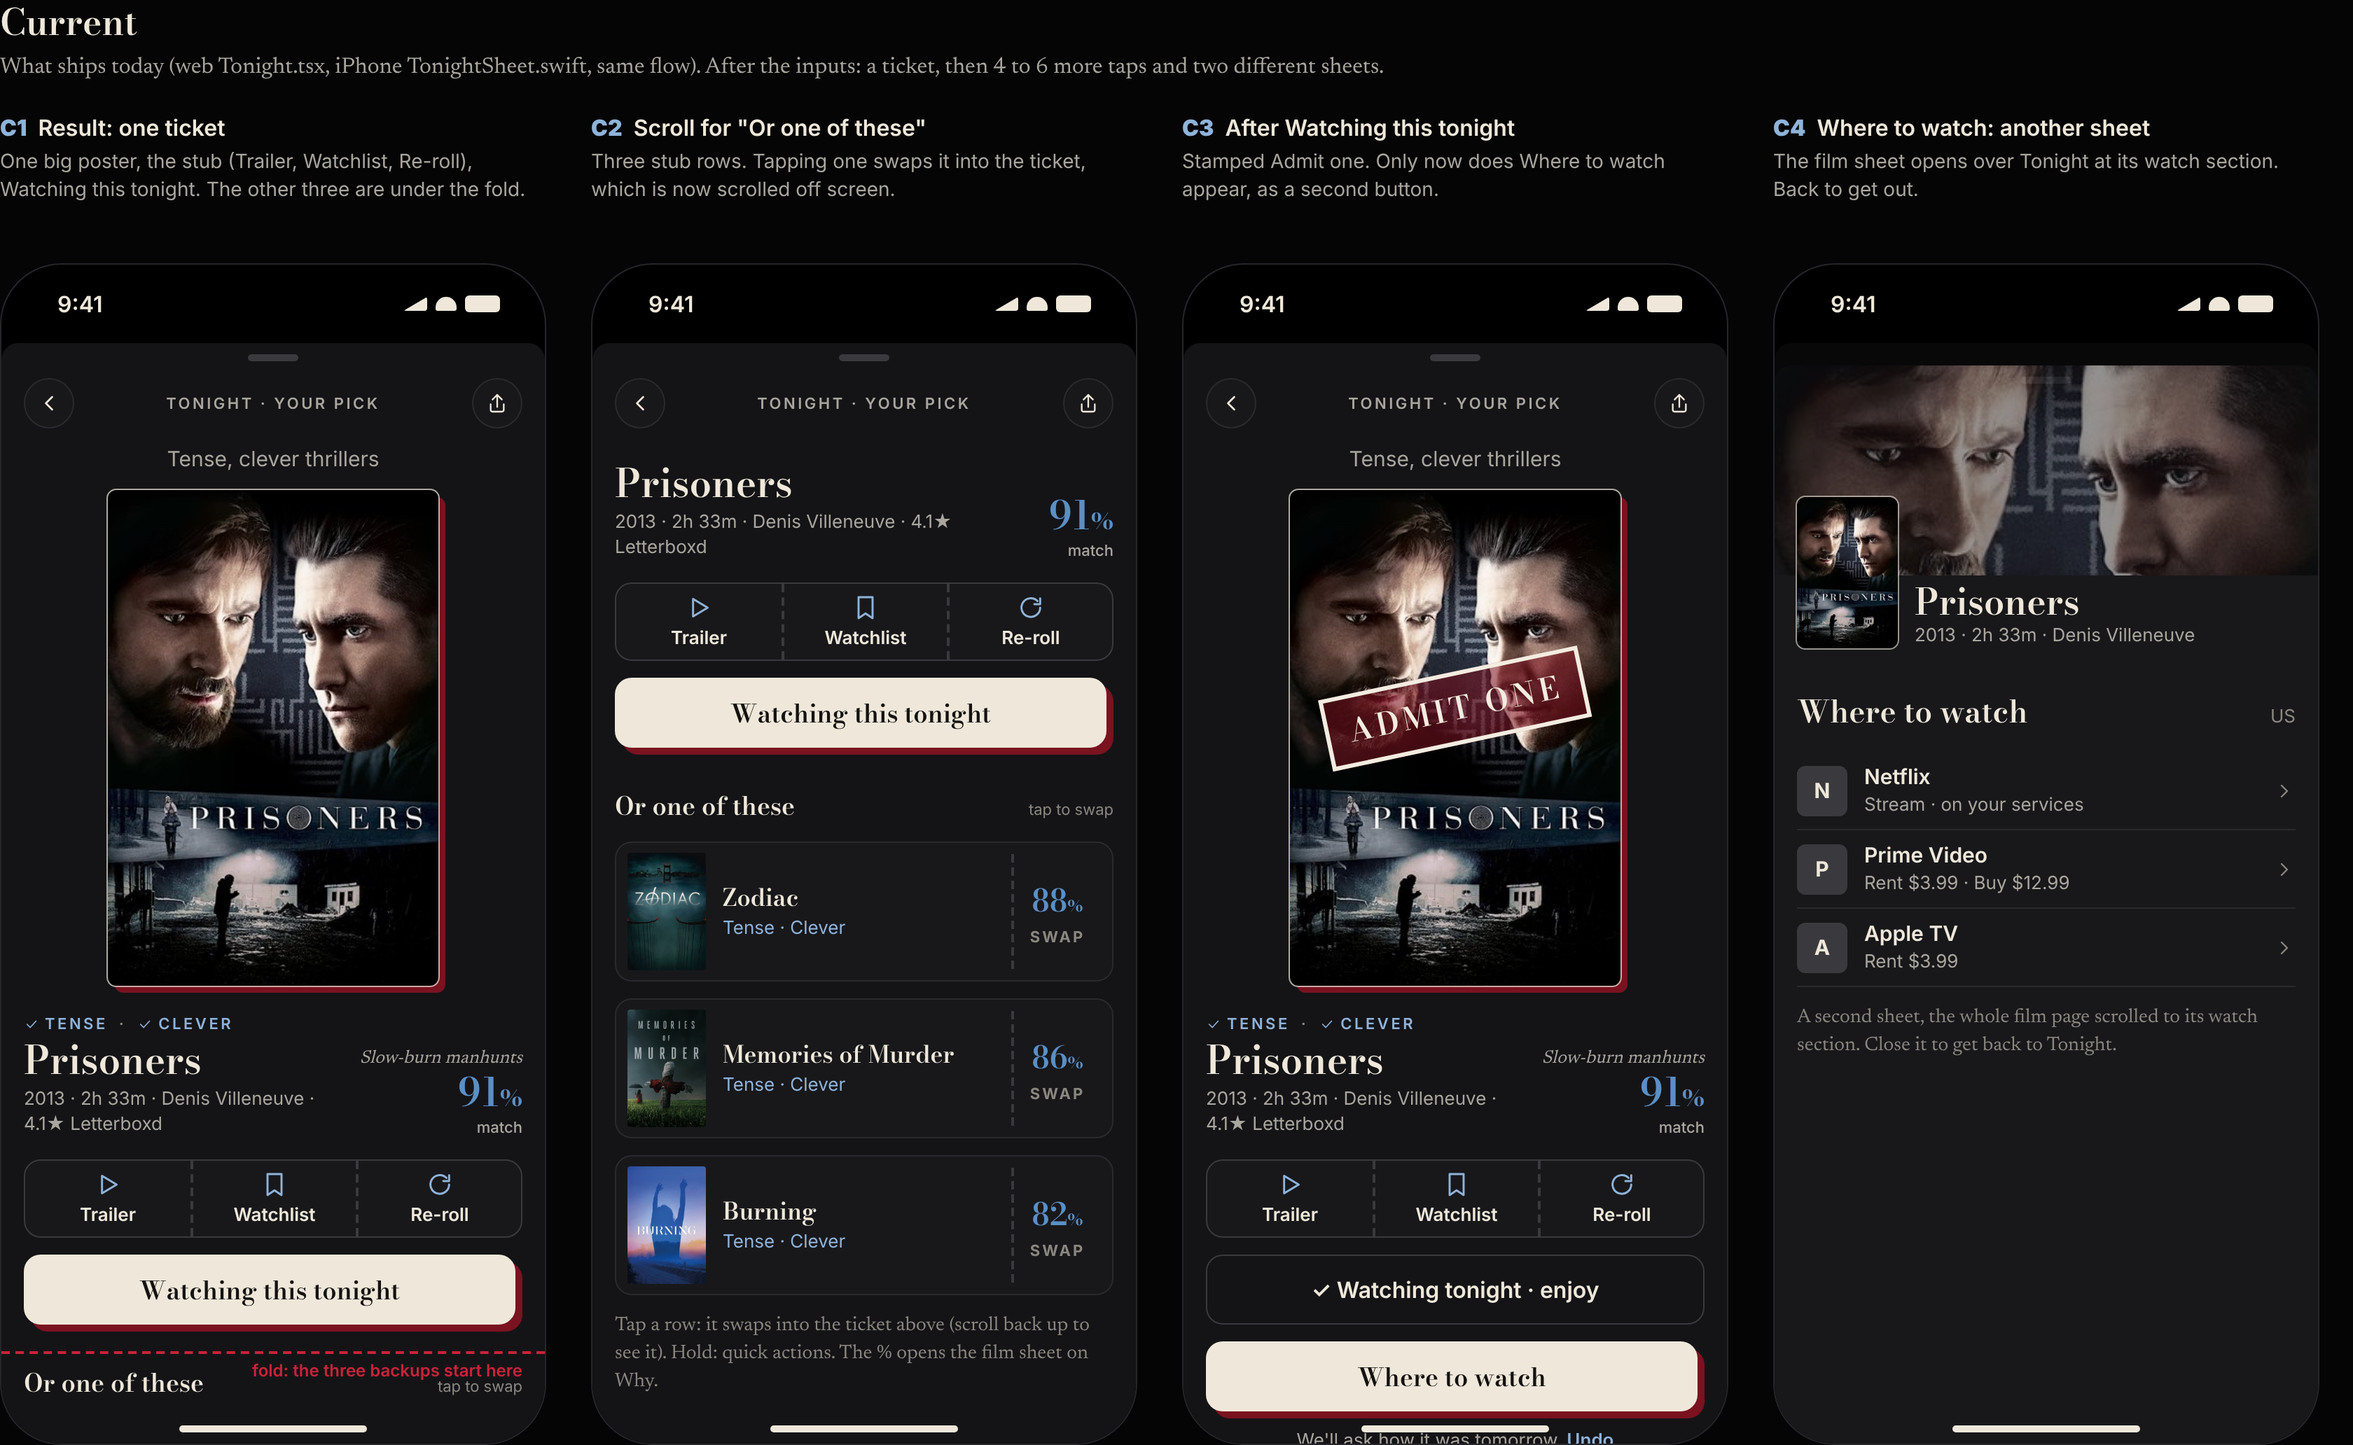
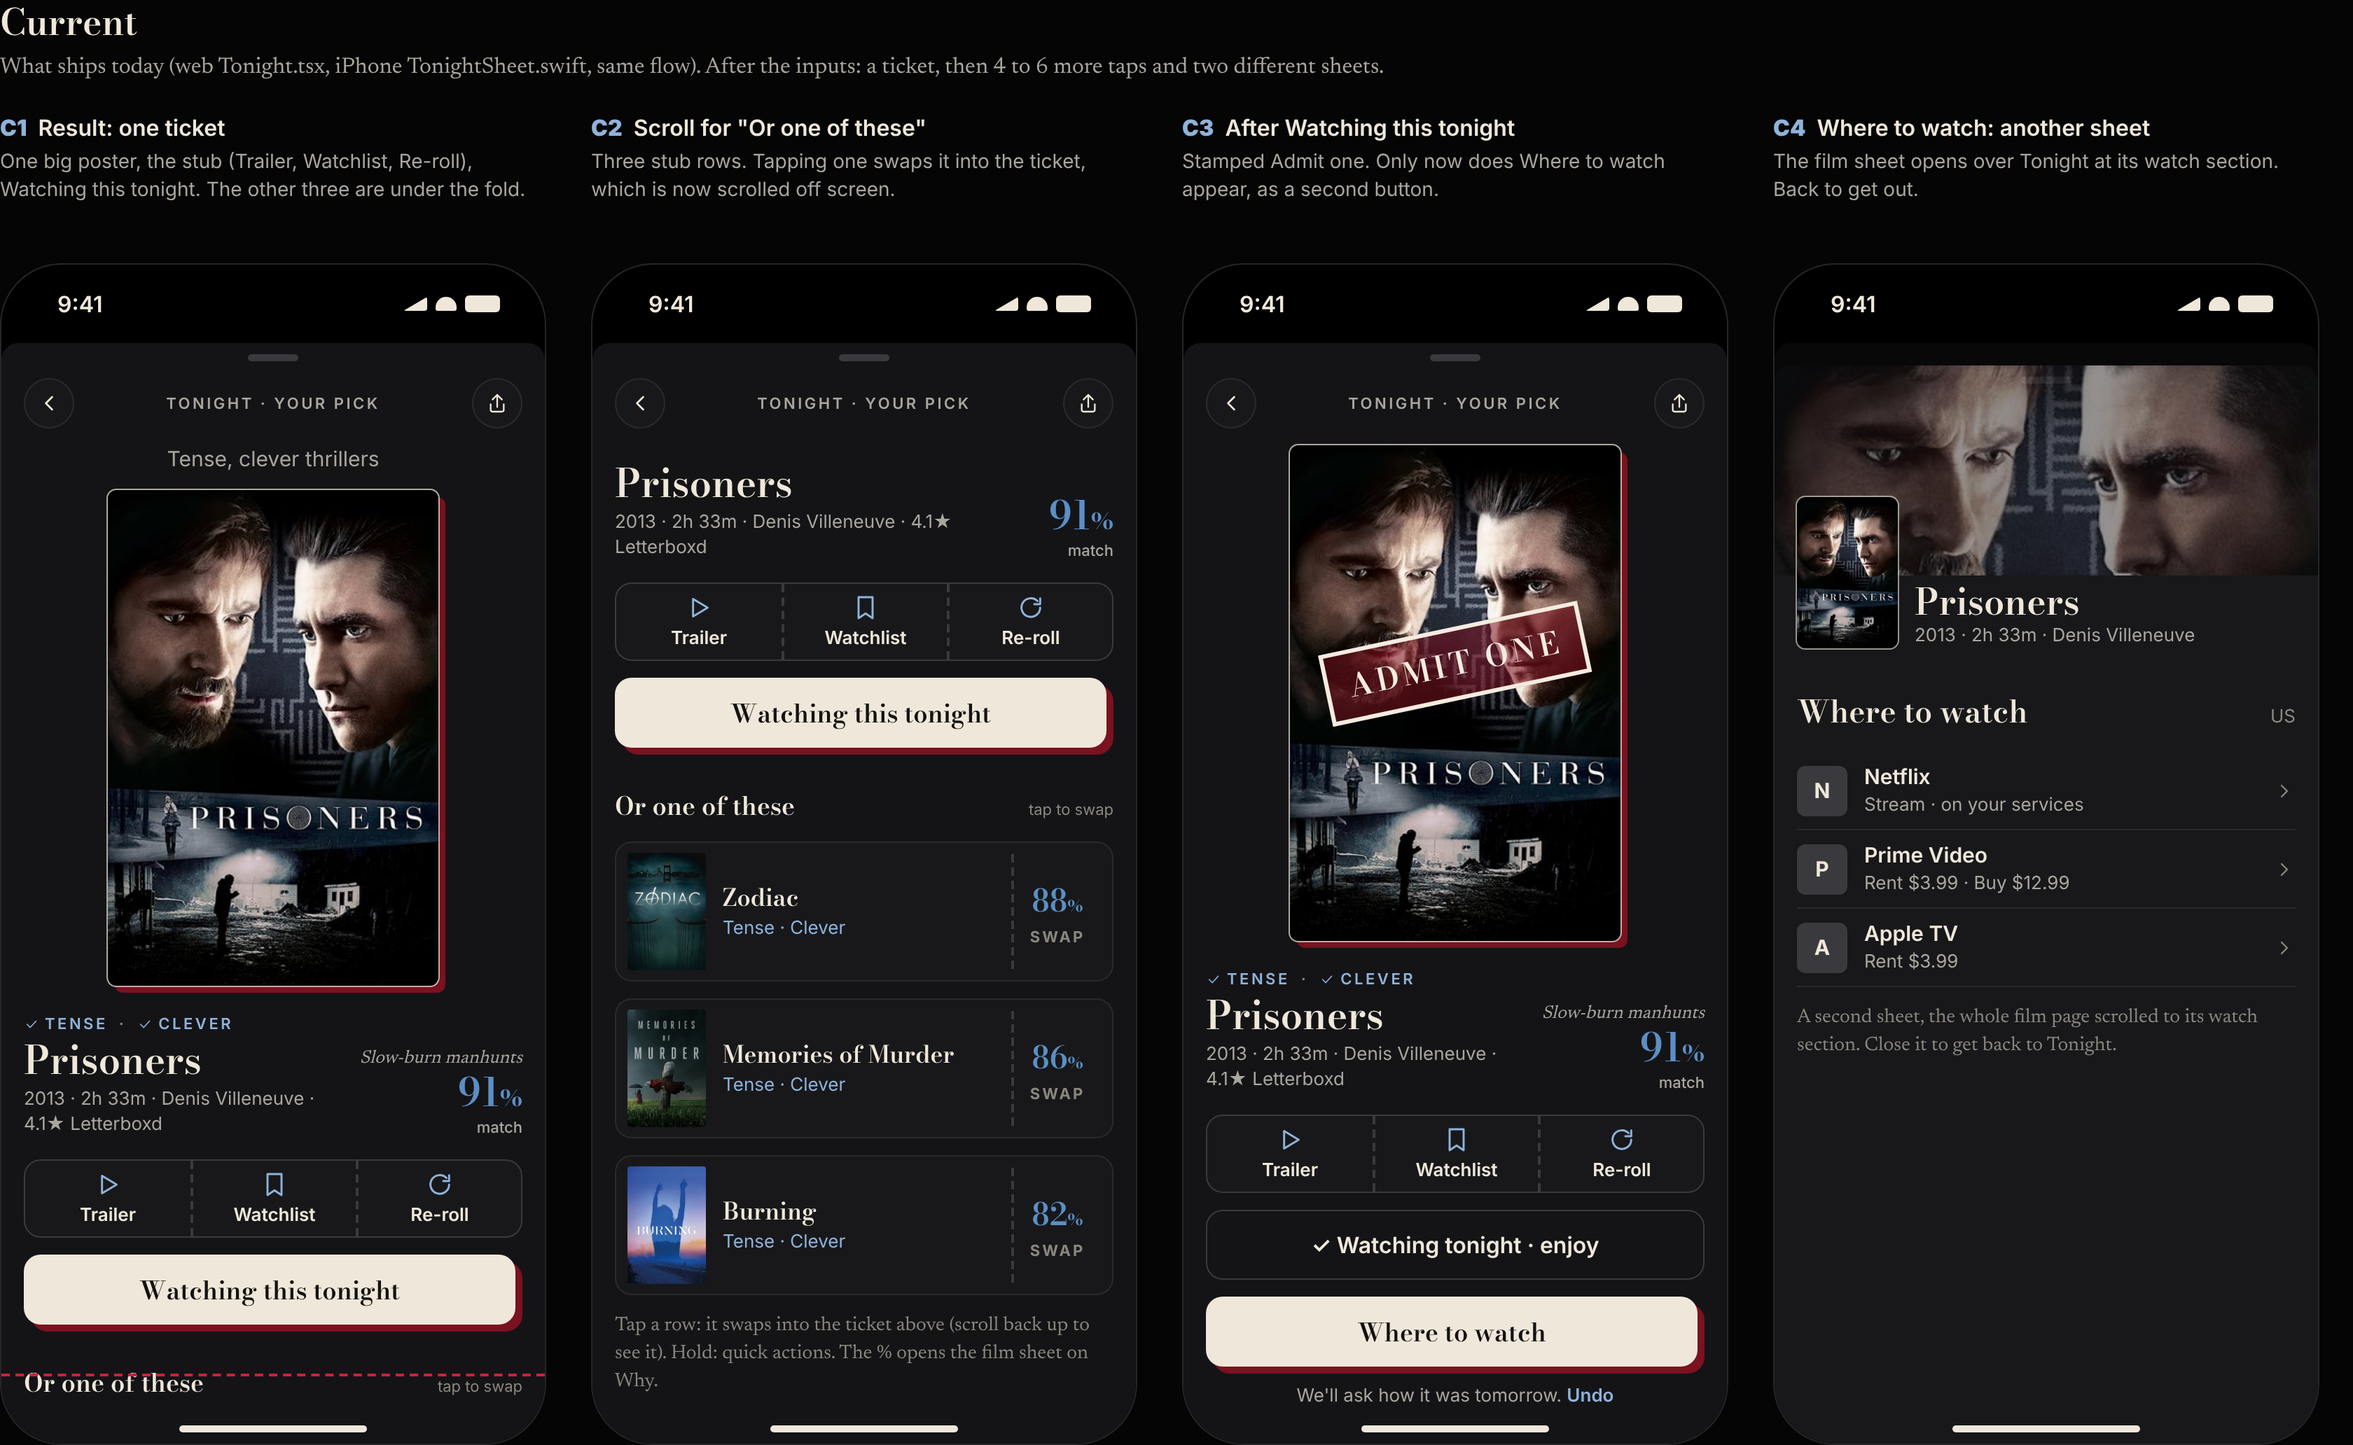
Mocks: in-progress simplification round mocks
Claude-Session: https://claude.ai/code/session_013WRDCFXH8nihP92apJAVW7

Changed region(s): [[0.5, 0.3101, 0.75, 1.0], [0.0938, 0.9302, 0.2188, 0.9612]]

diff --git a/mockups/journeys/tonight-four-v1.html b/mockups/journeys/tonight-four-v1.html
@@ -107,6 +107,9 @@ body{background:#050506;color:var(--ink);font-family:var(--ui);-webkit-font-smoo
 .aftop{display:flex;gap:16px;align-items:flex-end;margin-top:16px}
 .cream.play{margin-top:24px;font-family:var(--ui);font-size:17px}
 .alsob{display:flex;align-items:center;justify-content:center;height:44px;margin-top:8px;font:500 15px var(--ui);color:var(--accent-2)}
+
+.c3 .skipln{display:none}.c3 .cposter{margin-top:8px}
+.grid2{gap:4px 16px;margin-top:12px}.gt{margin-top:6px}
 </style></head><body><div id="all">
 <div class="top"><h1>Tonight result: four on one screen</h1><p>Owner, 2026-11-09: "don't make users do extra steps." Today: inputs, ticket, scroll for backups, swap, tap % for why, Watching this tonight, Where to watch, a second sheet. Proposed: inputs, four films, one tap.</p></div>
 <section class="grp" id="g1"><h2>Current</h2><p class="gsub">What ships today (web Tonight.tsx, iPhone TonightSheet.swift, same flow). After the inputs: a ticket, then 4 to 6 more taps and two different sheets.</p><div class="row"><div class="fr" id="c1"><p class="cap"><b>C1</b> Result: one ticket<span>One big poster, the stub (Trailer, Watchlist, Re-roll), Watching this tonight. The other three are under the fold.</span></p><div class="ph"><div class="sb"><span>9:41</span><span class="sbi"><i class="sig"></i><i class="wifi"></i><i class="bat"></i></span></div><div class="sheet full"><div class="grab"></div><div class="tnp-hd"><span class="rnd"><svg width="18" height="18" viewBox="0 0 24 24" fill="none" stroke="currentColor" stroke-width="1.75" stroke-linecap="round" stroke-linejoin="round" ><path d="M15 18l-6-6 6-6"/></svg></span><span class="kick">Tonight · Your pick</span><span class="rnd"><svg width="16" height="16" viewBox="0 0 24 24" fill="none" stroke="currentColor" stroke-width="1.75" stroke-linecap="round" stroke-linejoin="round" ><path d="M12 3v13M7 8l5-5 5 5"/><path d="M5 13v6a2 2 0 0 0 2 2h10a2 2 0 0 0 2-2v-6"/></svg></span></div>
@@ -116,11 +119,11 @@ body{background:#050506;color:var(--ink);font-family:var(--ui);-webkit-font-smoo
   <span class="ctitle">Prisoners</span><span class="cmeta">2013 · 2h 33m · Denis Villeneuve · 4.1★ Letterboxd</span></div>
   <div class="cscore"><span class="clane">Slow-burn manhunts</span><span class="cpct"><b>91<small>%</small></b><em>match</em></span></div></div><div class="cstub"><span><svg width="20" height="20" viewBox="0 0 24 24" fill="none" stroke="currentColor" stroke-width="1.75" stroke-linecap="round" stroke-linejoin="round" ><path d="M7 4.5v15l12.5-7.5z"/></svg>Trailer</span><span><svg width="20" height="20" viewBox="0 0 24 24" fill="none" stroke="currentColor" stroke-width="1.75" stroke-linecap="round" stroke-linejoin="round" ><path d="M6 3h12v18l-6-4-6 4z"/></svg>Watchlist</span><span><svg width="20" height="20" viewBox="0 0 24 24" fill="none" stroke="currentColor" stroke-width="1.75" stroke-linecap="round" stroke-linejoin="round" ><path d="M20 12a8 8 0 1 1-2.3-5.7M20 4v5h-5"/></svg>Re-roll</span></div><div class="cream">Watching this tonight</div>
   <div class="fold"><span>Or one of these</span><em>tap to swap</em></div></div></div><div class="hi"></div>
-  <div class="fold-mark">fold: the three backups start here</div></div></div><div class="fr" id="c2"><p class="cap"><b>C2</b> Scroll for "Or one of these"<span>Three stub rows. Tapping one swaps it into the ticket, which is now scrolled off screen.</span></p><div class="ph"><div class="sb"><span>9:41</span><span class="sbi"><i class="sig"></i><i class="wifi"></i><i class="bat"></i></span></div><div class="sheet full scrolled"><div class="grab"></div><div class="tnp-hd"><span class="rnd"><svg width="18" height="18" viewBox="0 0 24 24" fill="none" stroke="currentColor" stroke-width="1.75" stroke-linecap="round" stroke-linejoin="round" ><path d="M15 18l-6-6 6-6"/></svg></span><span class="kick">Tonight · Your pick</span><span class="rnd"><svg width="16" height="16" viewBox="0 0 24 24" fill="none" stroke="currentColor" stroke-width="1.75" stroke-linecap="round" stroke-linejoin="round" ><path d="M12 3v13M7 8l5-5 5 5"/><path d="M5 13v6a2 2 0 0 0 2 2h10a2 2 0 0 0 2-2v-6"/></svg></span></div>
+  <div class="fold-mark"></div></div></div><div class="fr" id="c2"><p class="cap"><b>C2</b> Scroll for "Or one of these"<span>Three stub rows. Tapping one swaps it into the ticket, which is now scrolled off screen.</span></p><div class="ph"><div class="sb"><span>9:41</span><span class="sbi"><i class="sig"></i><i class="wifi"></i><i class="bat"></i></span></div><div class="sheet full scrolled"><div class="grab"></div><div class="tnp-hd"><span class="rnd"><svg width="18" height="18" viewBox="0 0 24 24" fill="none" stroke="currentColor" stroke-width="1.75" stroke-linecap="round" stroke-linejoin="round" ><path d="M15 18l-6-6 6-6"/></svg></span><span class="kick">Tonight · Your pick</span><span class="rnd"><svg width="16" height="16" viewBox="0 0 24 24" fill="none" stroke="currentColor" stroke-width="1.75" stroke-linecap="round" stroke-linejoin="round" ><path d="M12 3v13M7 8l5-5 5 5"/><path d="M5 13v6a2 2 0 0 0 2 2h10a2 2 0 0 0 2-2v-6"/></svg></span></div>
   <div class="pad"><div class="peek"><div class="cinfo"><div class="ctxt"><span class="ctitle">Prisoners</span><span class="cmeta">2013 · 2h 33m · Denis Villeneuve · 4.1★ Letterboxd</span></div><div class="cscore"><span class="cpct"><b>91<small>%</small></b><em>match</em></span></div></div></div><div class="cstub"><span><svg width="20" height="20" viewBox="0 0 24 24" fill="none" stroke="currentColor" stroke-width="1.75" stroke-linecap="round" stroke-linejoin="round" ><path d="M7 4.5v15l12.5-7.5z"/></svg>Trailer</span><span><svg width="20" height="20" viewBox="0 0 24 24" fill="none" stroke="currentColor" stroke-width="1.75" stroke-linecap="round" stroke-linejoin="round" ><path d="M6 3h12v18l-6-4-6 4z"/></svg>Watchlist</span><span><svg width="20" height="20" viewBox="0 0 24 24" fill="none" stroke="currentColor" stroke-width="1.75" stroke-linecap="round" stroke-linejoin="round" ><path d="M20 12a8 8 0 1 1-2.3-5.7M20 4v5h-5"/></svg>Re-roll</span></div><div class="cream">Watching this tonight</div>
   <div class="ohd"><span>Or one of these</span><em>tap to swap</em></div>
   <div class="alt"><span class="altp" style="background-image:url(file:///home/user/CS-Term-Project/mockups/journeys/lists-v2-img/zodiac.jpg)"></span><span class="altb"><span class="altt">Zodiac</span><span class="altf">Tense · Clever</span></span><span class="alts"><b>88<small>%</small></b><i>Swap</i></span></div><div class="alt"><span class="altp" style="background-image:url(file:///home/user/CS-Term-Project/mockups/journeys/lists-v2-img/memories.jpg)"></span><span class="altb"><span class="altt">Memories of Murder</span><span class="altf">Tense · Clever</span></span><span class="alts"><b>86<small>%</small></b><i>Swap</i></span></div><div class="alt"><span class="altp" style="background-image:url(file:///home/user/CS-Term-Project/mockups/journeys/lists-v2-img/burning.jpg)"></span><span class="altb"><span class="altt">Burning</span><span class="altf">Tense · Clever</span></span><span class="alts"><b>82<small>%</small></b><i>Swap</i></span></div>
-  <p class="note-in">Tap a row: it swaps into the ticket above (scroll back up to see it). Hold: quick actions. The % opens the film sheet on Why.</p></div></div><div class="hi"></div></div></div><div class="fr" id="c3"><p class="cap"><b>C3</b> After Watching this tonight<span>Stamped Admit one. Only now does Where to watch appear, as a second button.</span></p><div class="ph"><div class="sb"><span>9:41</span><span class="sbi"><i class="sig"></i><i class="wifi"></i><i class="bat"></i></span></div><div class="sheet full"><div class="grab"></div><div class="tnp-hd"><span class="rnd"><svg width="18" height="18" viewBox="0 0 24 24" fill="none" stroke="currentColor" stroke-width="1.75" stroke-linecap="round" stroke-linejoin="round" ><path d="M15 18l-6-6 6-6"/></svg></span><span class="kick">Tonight · Your pick</span><span class="rnd"><svg width="16" height="16" viewBox="0 0 24 24" fill="none" stroke="currentColor" stroke-width="1.75" stroke-linecap="round" stroke-linejoin="round" ><path d="M12 3v13M7 8l5-5 5 5"/><path d="M5 13v6a2 2 0 0 0 2 2h10a2 2 0 0 0 2-2v-6"/></svg></span></div>
+  <p class="note-in">Tap a row: it swaps into the ticket above (scroll back up to see it). Hold: quick actions. The % opens the film sheet on Why.</p></div></div><div class="hi"></div></div></div><div class="fr" id="c3"><p class="cap"><b>C3</b> After Watching this tonight<span>Stamped Admit one. Only now does Where to watch appear, as a second button.</span></p><div class="ph"><div class="sb"><span>9:41</span><span class="sbi"><i class="sig"></i><i class="wifi"></i><i class="bat"></i></span></div><div class="sheet full c3"><div class="grab"></div><div class="tnp-hd"><span class="rnd"><svg width="18" height="18" viewBox="0 0 24 24" fill="none" stroke="currentColor" stroke-width="1.75" stroke-linecap="round" stroke-linejoin="round" ><path d="M15 18l-6-6 6-6"/></svg></span><span class="kick">Tonight · Your pick</span><span class="rnd"><svg width="16" height="16" viewBox="0 0 24 24" fill="none" stroke="currentColor" stroke-width="1.75" stroke-linecap="round" stroke-linejoin="round" ><path d="M12 3v13M7 8l5-5 5 5"/><path d="M5 13v6a2 2 0 0 0 2 2h10a2 2 0 0 0 2-2v-6"/></svg></span></div>
   <div class="pad"><div class="skipln">Tense, clever thrillers</div>
   <div class="cposter" style="background-image:url(file:///home/user/CS-Term-Project/mockups/journeys/lists-v2-img/prisoners.jpg)"><span class="stamp">Admit one</span></div>
   <div class="cinfo"><div class="ctxt"><span class="ckick"><svg width="11" height="11" viewBox="0 0 24 24" fill="none" stroke="currentColor" stroke-width="1.75" stroke-linecap="round" stroke-linejoin="round" ><path d="M5 12l5 5 9-10"/></svg>Tense <i>·</i> <svg width="11" height="11" viewBox="0 0 24 24" fill="none" stroke="currentColor" stroke-width="1.75" stroke-linecap="round" stroke-linejoin="round" ><path d="M5 12l5 5 9-10"/></svg>Clever</span>
@@ -172,7 +175,7 @@ body{background:#050506;color:var(--ink);font-family:var(--ui);-webkit-font-smoo
   <div class="asked"><span class="chip"><svg width="12" height="12" viewBox="0 0 24 24" fill="none" stroke="currentColor" stroke-width="1.75" stroke-linecap="round" stroke-linejoin="round" ><path d="M5 12l5 5 9-10"/></svg>Tense</span><span class="chip"><svg width="12" height="12" viewBox="0 0 24 24" fill="none" stroke="currentColor" stroke-width="1.75" stroke-linecap="round" stroke-linejoin="round" ><path d="M5 12l5 5 9-10"/></svg>Clever</span><span class="chip">Your services</span><span class="chg"><svg width="16" height="16" viewBox="0 0 24 24" fill="none" stroke="currentColor" stroke-width="1.75" stroke-linecap="round" stroke-linejoin="round" ><path d="M4 6h10M18 6h2M4 12h4M12 12h8M4 18h12M20 18h0"/><circle cx="16" cy="6" r="2"/><circle cx="10" cy="12" r="2"/><circle cx="18" cy="18" r="2"/></svg>Change</span></div>
   <div class="grid2"><div class="gc pick"><div class="gp" style="background-image:url(file:///home/user/CS-Term-Project/mockups/journeys/lists-v2-img/prisoners.jpg)"><span class="badge">The pick</span><span class="pct">91<small>%</small></span></div><span class="gt">Prisoners</span></div><div class="gc"><div class="gp" style="background-image:url(file:///home/user/CS-Term-Project/mockups/journeys/lists-v2-img/zodiac.jpg)"><span class="pct">88<small>%</small></span></div><span class="gt">Zodiac</span></div><div class="gc"><div class="gp" style="background-image:url(file:///home/user/CS-Term-Project/mockups/journeys/lists-v2-img/memories.jpg)"><span class="pct">86<small>%</small></span></div><span class="gt">Memories of Murder</span></div><div class="gc"><div class="gp" style="background-image:url(file:///home/user/CS-Term-Project/mockups/journeys/lists-v2-img/burning.jpg)"><span class="pct">82<small>%</small></span></div><span class="gt">Burning</span></div></div></div><div class="rbar"><span class="rbtn"><svg width="18" height="18" viewBox="0 0 24 24" fill="none" stroke="currentColor" stroke-width="1.75" stroke-linecap="round" stroke-linejoin="round" ><path d="M20 12a8 8 0 1 1-2.3-5.7M20 4v5h-5"/></svg>Re-roll all four</span></div></div><div class="scrim"></div><div class="dr"><div class="grab"></div>
   <div class="drh"><span class="drp" style="background-image:url(file:///home/user/CS-Term-Project/mockups/journeys/lists-v2-img/prisoners.jpg)"></span><span class="drtx"><span class="drk">The pick</span><span class="drt">Prisoners</span><span class="cmeta">2013 · 2h 33m · Denis Villeneuve</span><span class="cmeta">4.1★ Letterboxd</span></span><span class="rnd sm"><svg width="16" height="16" viewBox="0 0 24 24" fill="none" stroke="currentColor" stroke-width="1.75" stroke-linecap="round" stroke-linejoin="round" ><path d="M12 3v13M7 8l5-5 5 5"/><path d="M5 13v6a2 2 0 0 0 2 2h10a2 2 0 0 0 2-2v-6"/></svg></span></div>
-  <div class="drm"><span class="hpct"><b>91<small>%</small></b><em>match</em></span><p class="why">A case that never closes, the way Zodiac didn't. You gave Zodiac 4.5★.</p></div>
+  <div class="drm"><span class="hpct"><b>91<small>%</small></b><em>match</em></span><p class="why">A manhunt that tightens slowly, like Se7en, which you gave 4.5★.</p></div>
   <div class="wlab">Where to watch</div>
   <div class="where"><span class="wc on"><b>Max</b><em>Your service</em></span><span class="wc"><b>Prime Video</b><em>Rent $3.99</em></span></div>
   <div class="two"><span class="sec"><svg width="18" height="18" viewBox="0 0 24 24" fill="none" stroke="currentColor" stroke-width="1.75" stroke-linecap="round" stroke-linejoin="round" ><path d="M7 4.5v15l12.5-7.5z"/></svg>Trailer</span><span class="sec"><svg width="18" height="18" viewBox="0 0 24 24" fill="none" stroke="currentColor" stroke-width="1.75" stroke-linecap="round" stroke-linejoin="round" ><path d="M6 3h12v18l-6-4-6 4z"/></svg>Watchlist</span></div>
